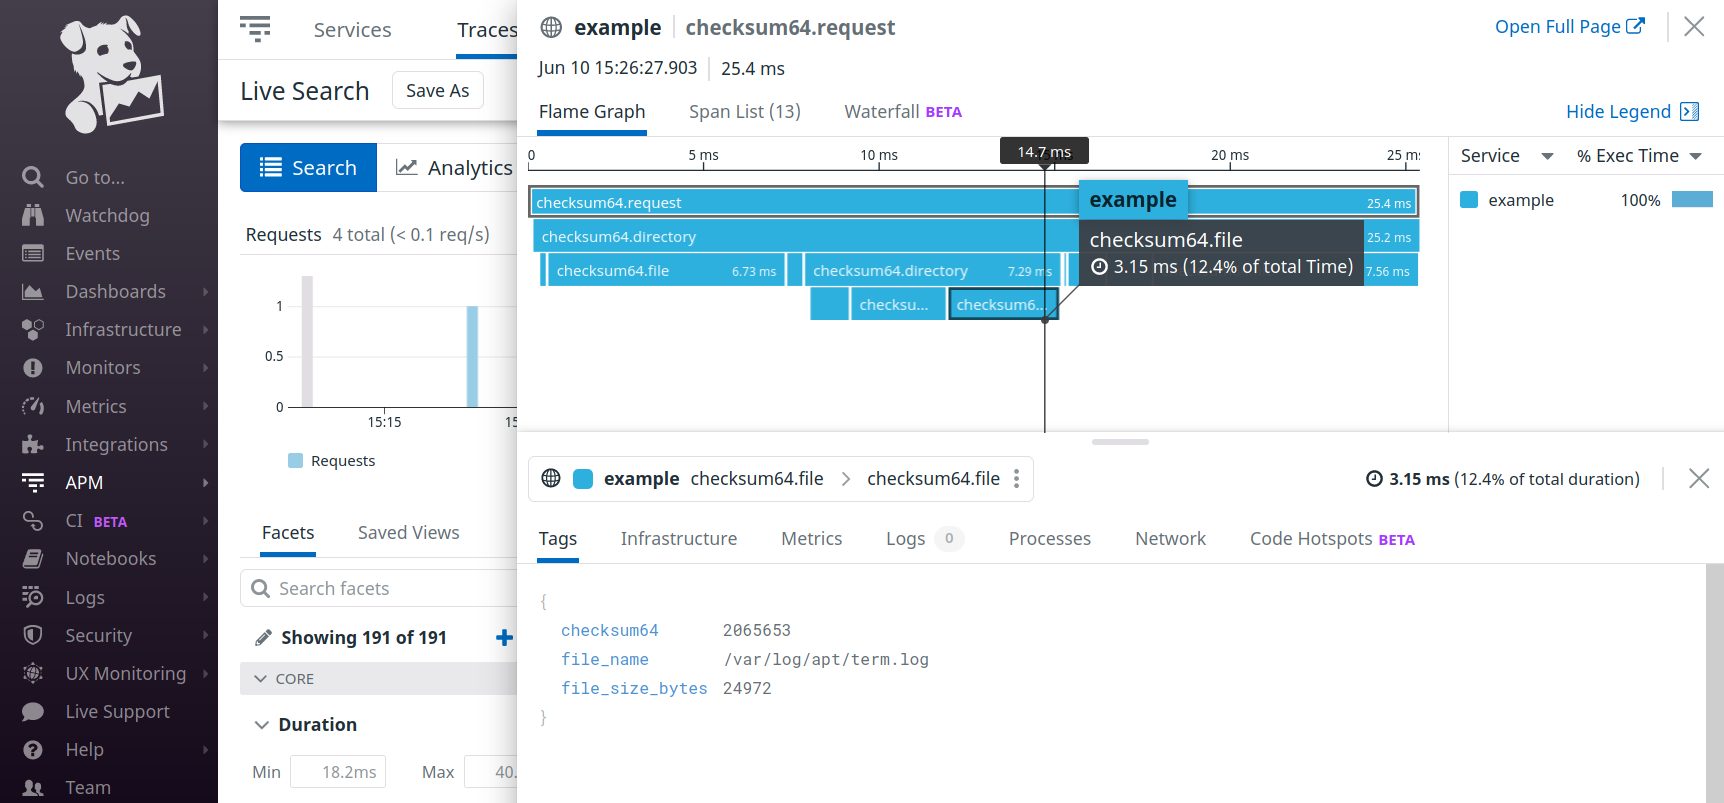
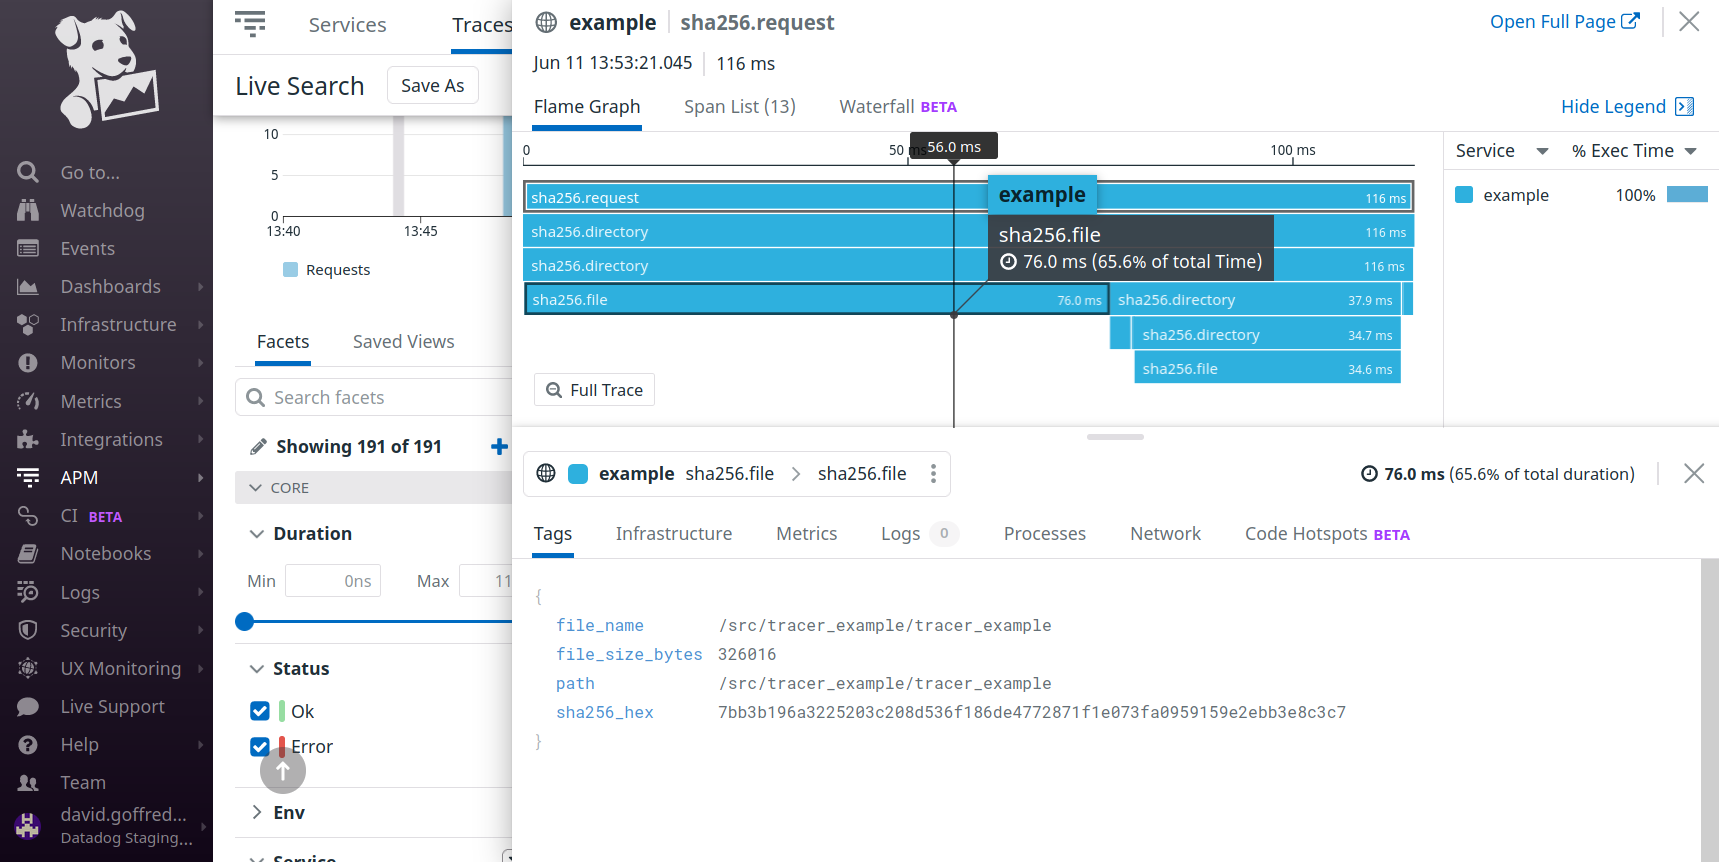
use SHA256, instead of a naive sum

diff --git a/src/tracer_example.cpp b/src/tracer_example.cpp
@@ -1,96 +1,154 @@
-// Read lines from standard input.  Interpret each line as the path to a
-// directory.
+// Read lines from standard input, interpreting each as a file path.
 //
-// For each such directory, calculate a checksum for it by recursively visiting
-// its descendants and summing all of the bytes of regular files.
+// If the path does not exist, print an error.
 //
-// Also, for each such directory, produce a trace whose structure reflects that
-// of the directory tree.
+// If the path exists and is a regular file, print the SHA256 digest of the
+// file's contents.  Produce a single tracing span indicating the calculation.
+//
+// If the path exists and is a directory, calculate the SHA256 digest of the
+// directory from the names and digests of its children, combined in some
+// canonical format.  Produce a trace whose structure reflects the directory
+// structure.
 
+#include <algorithm>
+#include <array>
+#include <cstddef>
 #include <cstdint>
+#include <cstdio>
 #include <datadog/opentracing.h>
 #include <datadog/tags.h>
 #include <filesystem.h> // `namespace fs` is `std::filesystem` or a backport
 #include <iostream>
+#include <picosha2.h> // `picosha2::hash256` functions
 #include <string>
+#include <vector>
 
-// Return the sum of all of the bytes in the specified regular `file`, modulo
-// pow(2, 64).  Return zero if an error occurs.
-std::uint64_t checksum64_file(const fs::path &file) {
-  std::uint64_t sum = 0;
-  std::ifstream in(file);
-  char ch;
-  while (in.get(ch)) {
-    sum += static_cast<std::uint64_t>(ch);
+using Digest = std::array<char, picosha2::k_digest_size>;
+
+// Return the specified `digest` formatted as a lower case hexadecimal string.
+std::string hex(const Digest &digest) {
+  std::string result;
+  for (std::size_t i = 0; i < digest.size(); ++i) {
+    char buf[2 + 1];
+    std::snprintf(buf, sizeof buf, "%02x",
+                  static_cast<unsigned char>(digest[i]));
+    result.append(buf, 2);
   }
-
-  return sum;
+  return result;
 }
 
-// Return the checksum64 of the specified `path`, using the tracing context of
-// the specified `tracer` and `context`.  Return zero if `path` is neither a
-// directory nor a normal file, or if an error occurs.
-std::uint64_t checksum64_traced(const fs::path &path, ot::Tracer &tracer,
-                                const ot::SpanContext &context) try {
+// Store into the specified `digest` the SHA256 digest of the contents of the
+// specified `file`.  Return zero on success, or a nonzero value if an error
+// occurs.
+int sha256(Digest &digest, const fs::path &file) {
+  std::ifstream in(file);
+  if (!in) {
+    return 1;
+  }
+  picosha2::hash256(in, digest.begin(), digest.end());
+  return 0;
+}
+
+// Return the SHA256 digest of a directory having the specified `children`.
+// This function will sort  `children` in place.
+Digest sha256(std::vector<std::pair<fs::path, Digest>> &children) {
+  std::sort(children.begin(), children.end());
+
+  std::vector<char> descriptor;
+  for (const auto &record : children) {
+    const std::string path = record.first.filename().u8string();
+    const Digest &hash = record.second;
+    descriptor.insert(descriptor.end(), path.begin(), path.end());
+    descriptor.insert(descriptor.end(), hash.begin(), hash.end());
+  }
+
+  Digest digest;
+  picosha2::hash256(descriptor, digest);
+  return digest;
+}
+
+// Store into the specified `digest` the SHA256 digest of the contents of the
+// file/directory at the specified `path`, using the tracing context of the
+// specified `tracer` and `context`.  Return zero on success.  Return a
+// nonzero value if `path` is neither a directory nor a normal file, or if an
+// error occurs.
+int sha256_traced(Digest &digest, const fs::path &path, ot::Tracer &tracer,
+                  const ot::SpanContext &context) try {
   if (fs::is_directory(path)) {
+    // Directory: Calculate hash of children, and then combine them.
     const auto span =
-        tracer.StartSpan("checksum64.directory", {ot::ChildOf(&context)});
+        tracer.StartSpan("sha256.directory", {ot::ChildOf(&context)});
+    span->SetTag("path", path.u8string());
     span->SetTag("file_name", path.u8string());
     span->SetTag("directory_name", path.u8string());
-    std::uint64_t number_of_children_included = 0;
-    std::uint64_t total = 0;
+
+    std::vector<std::pair<fs::path, Digest>> children;
     const auto options = fs::directory_options::skip_permission_denied;
     for (const auto &entry : fs::directory_iterator(path, options)) {
       if (!fs::is_symlink(path)) {
-        ++number_of_children_included;
-        total += checksum64_traced(entry, tracer, span->context());
+        Digest hash;
+        if (sha256_traced(hash, entry, tracer, span->context()) == 0) {
+          children.emplace_back(entry, hash);
+        }
       }
     }
-    span->SetTag("checksum64", total);
-    span->SetTag("number_of_children_included", number_of_children_included);
-    return total;
+    span->SetTag("number_of_children_included", children.size());
+    digest = sha256(children);
+    span->SetTag("sha256_hex", hex(digest));
+    return 0;
   } else if (fs::is_regular_file(path)) {
-    const auto span =
-        tracer.StartSpan("checksum64.file", {ot::ChildOf(&context)});
+    // Regular file: Calculate hash of file contents.
+    const auto span = tracer.StartSpan("sha256.file", {ot::ChildOf(&context)});
+    span->SetTag("path", path.u8string());
     span->SetTag("file_name", path.u8string());
     span->SetTag("file_size_bytes", fs::file_size(path));
-    const std::uint64_t total = checksum64_file(path);
-    span->SetTag("checksum64", total);
-    return total;
+    const int rc = sha256(digest, path);
+    if (rc) {
+      span->SetTag("error", "Unable to calculate sha256 hash.");
+    } else {
+      span->SetTag("sha256_hex", hex(digest));
+    }
+    return rc;
   } else {
-    return 0;
+    // Other kind of file (neither directory nor regular file): Ignore.
+    return 1;
   }
 } catch (const fs::filesystem_error &) {
-  return 0;
+  return 1;
+} catch (const std::ios_base::failure &) {
+  return 1;
 }
 
 int main() {
   const auto tracer = datadog::opentracing::makeTracer(
       datadog::opentracing::TracerOptions{"dd-agent", 8126, "example"});
 
-  const std::string prompt = "enter a directory (ctrl+d to quit): ";
-  std::string directory_path;
+  const std::string prompt = "enter a file or directory (ctrl+d to quit): ";
+  std::string input_path;
   while (std::cout << prompt << std::flush,
-         std::getline(std::cin, directory_path)) {
-    const fs::path path(directory_path);
+         std::getline(std::cin, input_path)) {
+    const fs::path path(input_path);
+
+    // Create a root span for the current request.
+    const auto root = tracer->StartSpan("sha256.request");
+    root->SetTag(datadog::tags::environment, "production");
+    root->SetTag("path", path.u8string());
 
     if (!fs::exists(path)) {
       std::cerr << "The file " << path << " does not exist.\n";
-      continue;
-    }
-    if (!fs::is_directory(path)) {
-      std::cerr << path << " is not a directory.\n";
+      root->SetTag("error", "The file does not exist.");
       continue;
     }
 
-    // Create a root span for the current request.
-    const auto root = tracer->StartSpan("checksum64.request");
-    root->SetTag(datadog::tags::environment, "production");
-    root->SetTag("directory_name", path.u8string());
-    const std::uint64_t checksum =
-        checksum64_traced(path, *tracer, root->context());
-    root->SetTag("checksum64", checksum);
-    std::cout << "checksum64(" << path << "): " << checksum << std::endl;
+    Digest digest;
+    if (sha256_traced(digest, path, *tracer, root->context())) {
+      std::cerr << "Unable to calculate the sha256 hash of " << path << ".\n";
+      root->SetTag("error", "Unable to calculate sha256 hash.");
+    } else {
+      const std::string hex_digest = hex(digest);
+      root->SetTag("sha256_hex", hex_digest);
+      std::cout << "sha256(" << path << "): " << hex_digest << std::endl;
+    }
   }
 
   std::cout << "\n";

diff --git a/README.md b/README.md
@@ -3,9 +3,9 @@ C++ Example
 Here's an example of using Datadog's OpenTracing implementation to add tracing
 to a C++ application.
 
-The example application is an interactive command line tool that calculates a 
-naive checksum of a specified directory by walking the file system and summing
-the bytes of all descendant regular files.
+The example application is an interactive command line tool that calculates the
+SHA256 digest of a specified directory by walking the file system and combining
+the digests of all descendant regular files.
 
 The source code of the example is [src/tracer_example.cpp][3].
 
@@ -38,11 +38,11 @@ $ DD_API_KEY=[... your key ...] bin/build_and_run_example.sh
 [...]
 Starting dd-opentracing-cpp-example_dd-agent_1 ... done
 Starting dd-opentracing-cpp-example_dd-opentracing-cpp-example_1 ... done
-enter a directory (ctrl+d to quit): /var/log
-checksum64("/var/log"): 24751235
-enter a directory (ctrl+d to quit): /src
-checksum64("/src"): 24035694
-enter a directory (ctrl+d to quit): ^d
+enter a file or directory (ctrl+d to quit): /var/log
+sha256("/var/log"): 9eb02e49e8cb0e307bbd0a99eee74257a1e058f69b492fc7c134846c46d03e32
+enter a file or directory (ctrl+d to quit): /src
+sha256("/src"): fc8587eff2d64d0d7290b9a6c158793bb4b781123e2d20f4fd7e881aa72c1029
+enter a file or directory (ctrl+d to quit): ^d
 Shutting down in 3... 2... 1... here we go!
 Stopping dd-opentracing-cpp-example_dd-agent_1 ... done
 Removing dd-opentracing-cpp-example_dd-opentracing-cpp-example_1 ... done
@@ -54,21 +54,30 @@ $
 
 Take note of the lines
 ```
-enter a directory (ctrl+d to quit): /var/log
-checksum64("/var/log"): 2475123
-enter a directory (ctrl+d to quit): /src
-checksum64("/src"): 24035694
+enter a file or directory (ctrl+d to quit): /var/log
+sha256("/var/log"): 9eb02e49e8cb0e307bbd0a99eee74257a1e058f69b492fc7c134846c46d03e32
+enter a file or directory (ctrl+d to quit): /src
+sha256("/src"): fc8587eff2d64d0d7290b9a6c158793bb4b781123e2d20f4fd7e881aa72c1029
 ```
 
 The example program will have produced a trace of its work calculating the
-checksums of all regular files under `/var/log` in the container, and a
-separate trace for `/src`.  The trace's service name is `example`, and the
-toplevel resource name is `checksum64.request`, e.g.
+digests of all regular files under `/var/log` in the container, and a separate
+trace for `/src`.  The trace's service name is `example`, and the toplevel
+resource name is `sha256.request`, e.g.
 
 ![search for requests](images/search.png)
 
 ![flame graph of trace](images/flame_graph.png)
 
+Attribution
+-----------
+This example uses two header-only C++ libraries:
+
+- [gulrak/filesystem][4], a C++11 backport of `std::filesystem`
+- [okdshin/PicoSHA2][5], a C++98 implementation of the SHA256 hash function.
+
 [1]: bin/build-and-run-example.sh
 [2]: https://github.com/docker/compose
 [3]: src/tracer_example.cpp
+[4]: https://github.com/gulrak/filesystem
+[5]: https://github.com/okdshin/PicoSHA2
